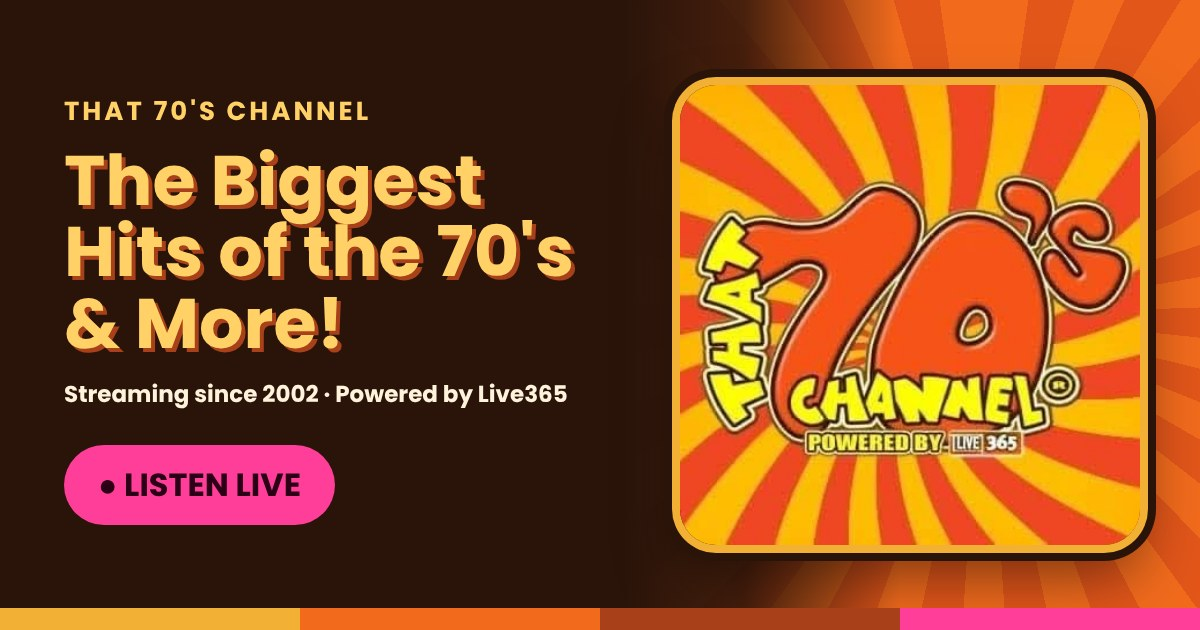
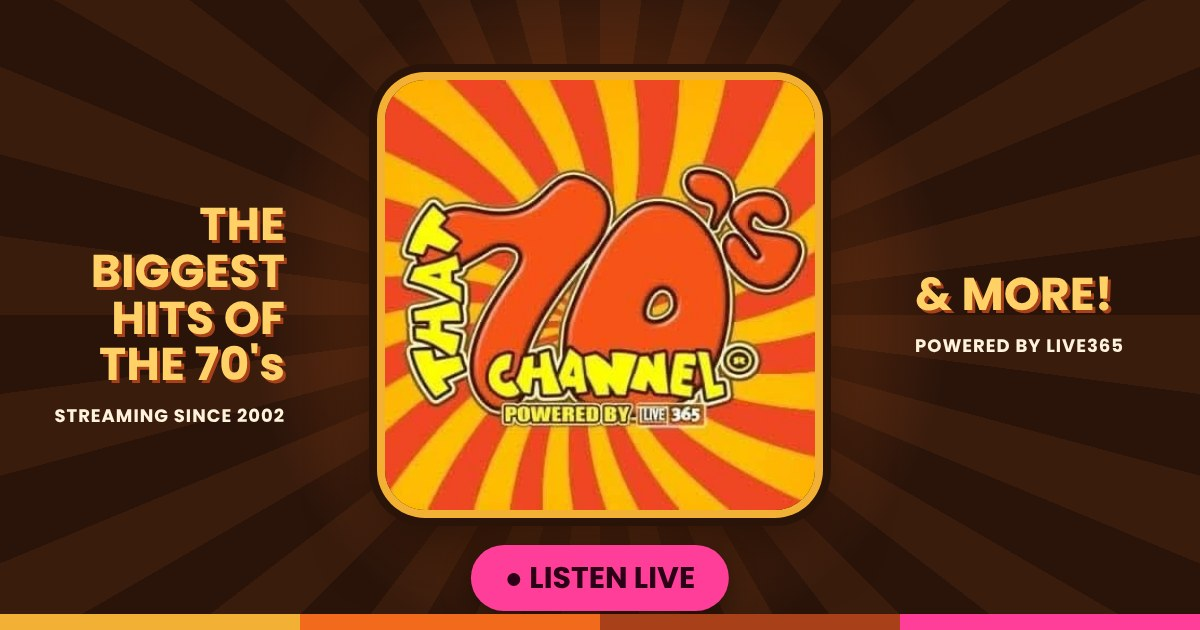
Pro link previews: crop-safe og-image, square fallback, itemprop + image_src, cache-bust
Claude-Session: https://claude.ai/code/session_012G2TuLMTkBEfwBm5bdPKDN

diff --git a/index.html b/index.html
@@ -7,29 +7,41 @@
 <meta name="description" content="That 70's Channel: the biggest hits of the 70's and more, streaming since 2002. Listen live on Live365, meet your morning hosts, request a song and play groovy 70s games.">
 <link rel="canonical" href="https://jamesonflex.github.io/that-70s-channel/">
 <meta name="theme-color" content="#2a140a">
-<!-- Open Graph -->
+<!-- Link previews: iMessage, WhatsApp, Messenger, Facebook, Instagram DMs, Telegram, Signal, Slack, Discord, LinkedIn, X, SMS/RCS -->
 <meta property="og:type" content="website">
 <meta property="og:site_name" content="That 70's Channel">
 <meta property="og:title" content="That 70's Channel – The Biggest Hits of the 70's and More!">
 <meta property="og:description" content="Streaming the biggest hits of the 70's since 2002. Listen live, request a song and play groovy 70s games.">
 <meta property="og:url" content="https://jamesonflex.github.io/that-70s-channel/">
-<meta property="og:image" content="https://jamesonflex.github.io/that-70s-channel/assets/og-image.jpg">
-<meta property="og:image:secure_url" content="https://jamesonflex.github.io/that-70s-channel/assets/og-image.jpg">
+<meta property="og:locale" content="en_US">
+<meta property="og:image" content="https://jamesonflex.github.io/that-70s-channel/assets/og-image.jpg?v=2">
+<meta property="og:image:secure_url" content="https://jamesonflex.github.io/that-70s-channel/assets/og-image.jpg?v=2">
 <meta property="og:image:type" content="image/jpeg">
 <meta property="og:image:width" content="1200">
 <meta property="og:image:height" content="630">
-<meta property="og:image:alt" content="That 70's Channel logo with the words The Biggest Hits of the 70's and More – Listen Live">
-<meta property="og:locale" content="en_US">
-<!-- Twitter / X -->
+<meta property="og:image:alt" content="That 70's Channel logo – The Biggest Hits of the 70's and More – Listen Live">
+<meta property="og:image" content="https://jamesonflex.github.io/that-70s-channel/assets/og-square.jpg?v=2">
+<meta property="og:image:type" content="image/jpeg">
+<meta property="og:image:width" content="600">
+<meta property="og:image:height" content="600">
+<meta property="og:image:alt" content="That 70's Channel logo – Listen Live">
+<!-- X / Twitter -->
 <meta name="twitter:card" content="summary_large_image">
 <meta name="twitter:title" content="That 70's Channel – The Biggest Hits of the 70's and More!">
 <meta name="twitter:description" content="Streaming the biggest hits of the 70's since 2002. Listen live, request a song, play 70s games.">
-<meta name="twitter:image" content="https://jamesonflex.github.io/that-70s-channel/assets/og-image.jpg">
-<meta name="twitter:image:alt" content="That 70's Channel logo">
+<meta name="twitter:image" content="https://jamesonflex.github.io/that-70s-channel/assets/og-image.jpg?v=2">
+<meta name="twitter:image:alt" content="That 70's Channel logo – Listen Live">
+<!-- Google Chat / older parsers -->
+<meta itemprop="name" content="That 70's Channel – The Biggest Hits of the 70's and More!">
+<meta itemprop="description" content="Streaming the biggest hits of the 70's since 2002. Listen live, request a song and play groovy 70s games.">
+<meta itemprop="image" content="https://jamesonflex.github.io/that-70s-channel/assets/og-image.jpg?v=2">
+<link rel="image_src" href="https://jamesonflex.github.io/that-70s-channel/assets/og-image.jpg?v=2">
+<meta name="application-name" content="That 70's Channel">
+<meta name="apple-mobile-web-app-title" content="That 70's">
 <!-- Icons -->
 <link rel="icon" href="favicon.ico" sizes="any">
 <link rel="icon" type="image/png" sizes="32x32" href="favicon-32.png">
-<link rel="apple-touch-icon" href="apple-touch-icon.png">
+<link rel="apple-touch-icon" sizes="180x180" href="apple-touch-icon.png">
 <link rel="manifest" href="site.webmanifest">
 <link rel="preload" as="image" href="assets/logo.jpg">
 <script type="application/ld+json">

diff --git a/404.html b/404.html
@@ -1,3 +1,3 @@
-<!DOCTYPE html><html lang="en"><head><meta charset="utf-8"><meta name="viewport" content="width=device-width,initial-scale=1"><title>404 – Record Skipped | That 70's Channel</title><link rel="icon" href="/that-70s-channel/favicon.ico"><link href="https://fonts.googleapis.com/css2?family=Shrikhand&family=Poppins:wght@600;800&display=swap" rel="stylesheet">
+<!DOCTYPE html><html lang="en"><head><meta charset="utf-8"><meta name="viewport" content="width=device-width,initial-scale=1"><title>404 – Record Skipped | That 70's Channel</title><meta property="og:type" content="website"><meta property="og:site_name" content="That 70's Channel"><meta property="og:title" content="That 70's Channel – The Biggest Hits of the 70's and More!"><meta property="og:description" content="Streaming the biggest hits of the 70's since 2002. Listen live on Live365."><meta property="og:image" content="https://jamesonflex.github.io/that-70s-channel/assets/og-image.jpg?v=2"><meta property="og:image:width" content="1200"><meta property="og:image:height" content="630"><meta name="twitter:card" content="summary_large_image"><meta name="twitter:image" content="https://jamesonflex.github.io/that-70s-channel/assets/og-image.jpg?v=2"><link rel="icon" href="/that-70s-channel/favicon.ico"><link href="https://fonts.googleapis.com/css2?family=Shrikhand&family=Poppins:wght@600;800&display=swap" rel="stylesheet">
 <style>body{margin:0;min-height:100vh;display:grid;place-items:center;text-align:center;font-family:Poppins,sans-serif;color:#fff3dc;background:repeating-conic-gradient(from 0deg at 50% 120%,#3a1c0d 0 8deg,#2a140a 8deg 16deg)}.rec{width:180px;height:180px;margin:0 auto 20px;border-radius:50%;background:radial-gradient(circle,#ff3e9a 0 14%,#111 15% 20%,transparent 21%),repeating-radial-gradient(#141414 0 2px,#262626 2px 4px);animation:s 2.5s linear infinite;box-shadow:0 20px 40px rgba(0,0,0,.6)}@keyframes s{to{transform:rotate(360deg)}}h1{font-family:Shrikhand,Georgia,serif;font-weight:400;font-size:clamp(34px,8vw,64px);margin:0;color:#ffd166;text-shadow:3px 3px 0 #a8401a}p{font-size:18px;max-width:420px;margin:10px auto 24px;padding:0 16px}a{display:inline-block;background:#f2b134;color:#24110a;font-weight:800;padding:14px 26px;border-radius:99px;text-decoration:none}</style></head>
 <body><main><div class="rec"></div><h1>404: Record Skipped!</h1><p>Whoa, this page scratched right off the vinyl. Let's drop the needle back on the hits.</p><a href="/that-70s-channel/">← Back to That 70's Channel</a></main></body></html>
